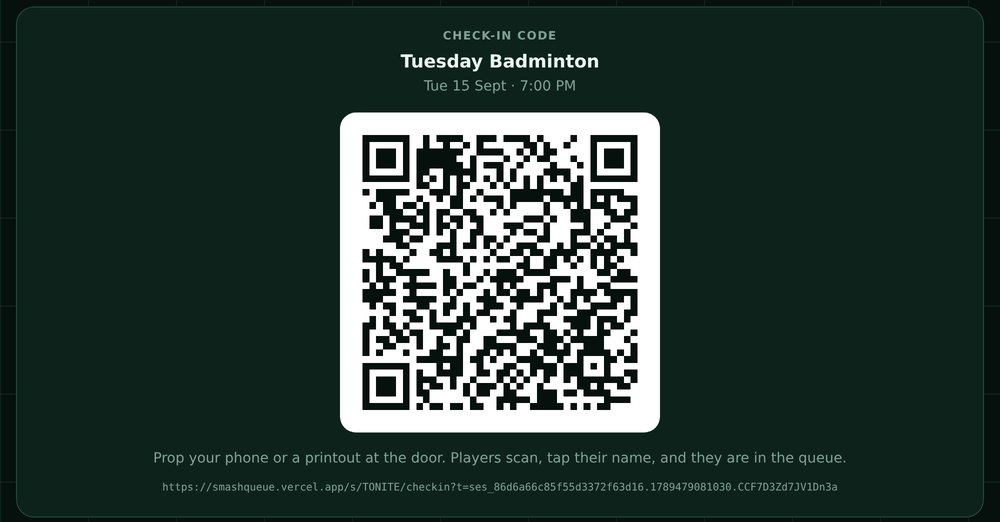
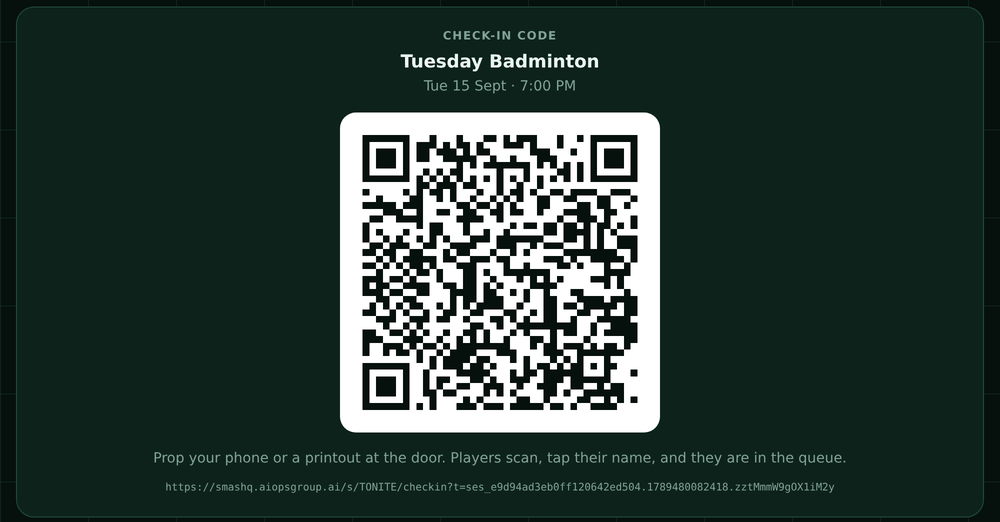
Move to smashq.aiopsgroup.ai
The app now serves from its own domain rather than the vercel.app
address, so every place that names an address had to follow: the README
badge and guide link, and the four references in the user guide, which
is generated into the app at build time.

QR codes needed no change. They are built from the request origin rather
than from configuration, so they already point at whichever domain
served the page. The QR and guide screenshots are recaptured to show it.

Claude-Session: https://claude.ai/code/session_015Ug1Y9LMyjPP6xH98pxx1T

Changed region(s): [[0.341, 0.2452, 0.651, 0.7969], [0.155, 0.9195, 0.837, 0.9502]]

diff --git a/docs/USER-GUIDE.md b/docs/USER-GUIDE.md
@@ -2,7 +2,7 @@
 
 **Book. Check in. Queue. Play.**
 
-**Live at [smashqueue.vercel.app](https://smashqueue.vercel.app)** &middot; `Beta 1.0.0-beta.1`
+**Live at [smashq.aiopsgroup.ai](https://smashq.aiopsgroup.ai)** &middot; `Beta 1.0.0-beta.1`
 &middot; built by [AIOps](https://aiops.ae) &middot; something wrong? **hello@aiops.ae**
 
 One badminton group, one link. Players book from WhatsApp, scan a QR at the door, and
@@ -25,7 +25,7 @@ screen and stops being the person everybody asks "when am I playing?"
 
 ## 1. The five-minute version
 
-**Tuesday** — organizer opens [smashqueue.vercel.app/admin](https://smashqueue.vercel.app/admin),
+**Tuesday** — organizer opens [smashq.aiopsgroup.ai/admin](https://smashq.aiopsgroup.ai/admin),
 creates the session, copies the link, drops it in WhatsApp.
 
 **Tuesday to Saturday** — players tap *Join session*. Once it's full, the next taps land
@@ -201,7 +201,7 @@ summary.
 **Organizer → New session**. Name, date, start and end time, venue, number of courts, max
 players, fee, game type, points per game.
 
-You get a short code and a link like `smashqueue.vercel.app/s/K4M2XP`. That's what goes in
+You get a short code and a link like `smashq.aiopsgroup.ai/s/K4M2XP`. That's what goes in
 WhatsApp. The QR check-in code is generated from the same session automatically, and it
 always points at whatever domain the app is served from — so it stays correct if the address
 ever changes.
@@ -377,7 +377,7 @@ the board. It lasts for tonight only.
 | Add a member | Organizer → Members |
 | See the leaderboard | Organizer → Statistics |
 | Report something broken | hello@aiops.ae |
-| Open the app | smashqueue.vercel.app |
+| Open the app | smashq.aiopsgroup.ai |
 
 ---
 

diff --git a/README.md b/README.md
@@ -5,7 +5,7 @@
 <br>
 
 [![Version](https://img.shields.io/badge/version-1.0.0--beta.1-D7F75B?style=for-the-badge&labelColor=0A1A15)](https://github.com/nishadsukumaran/smash-queue/releases)
-[![Live](https://img.shields.io/badge/live-smashqueue.vercel.app-3DD9A4?style=for-the-badge&labelColor=0A1A15)](https://smashqueue.vercel.app)
+[![Live](https://img.shields.io/badge/live-smashq.aiopsgroup.ai-3DD9A4?style=for-the-badge&labelColor=0A1A15)](https://smashq.aiopsgroup.ai)
 [![Tests](https://img.shields.io/badge/tests-38%20passing-3DD9A4?style=for-the-badge&labelColor=0A1A15)](#prove-it-yourself)
 [![Fairness](https://img.shields.io/badge/games%20spread-%E2%89%A4%201-D7F75B?style=for-the-badge&labelColor=0A1A15)](#the-queue-engine)
 
@@ -351,7 +351,7 @@ phone with one bar of signal in a sports hall.
 | `PORT` | `3000` | `PORT=3210 npm run dev` when 3000 is taken |
 
 Hosting, schema changes after launch, and what to watch as usage grows: **[`docs/DEPLOYING.md`](docs/DEPLOYING.md)**.
-The non-technical guide for players and coordinators: **[`docs/USER-GUIDE.md`](docs/USER-GUIDE.md)** (also live at [`/guide`](https://smashqueue.vercel.app/guide)).
+The non-technical guide for players and coordinators: **[`docs/USER-GUIDE.md`](docs/USER-GUIDE.md)** (also live at [`/guide`](https://smashq.aiopsgroup.ai/guide)).
 
 ---
 
